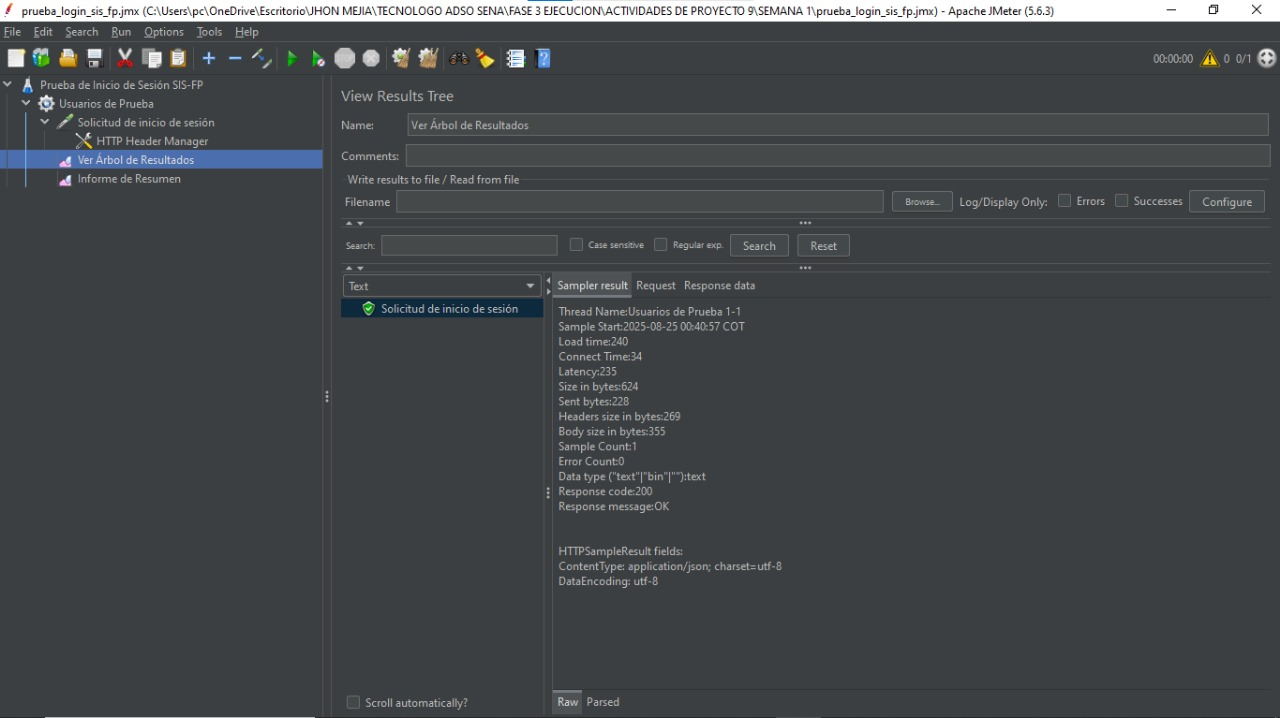
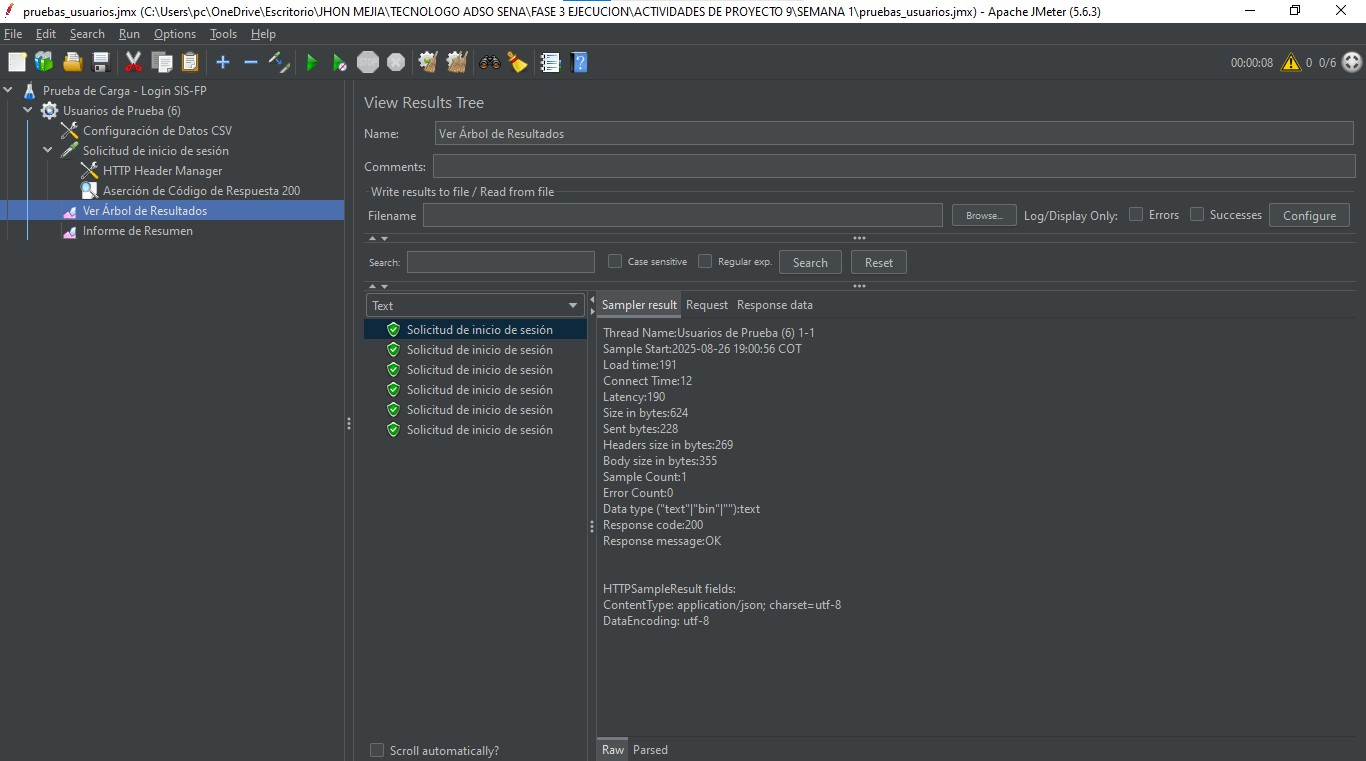
Actualizacion de las pruebas, varios usuarios

diff --git a/index.html b/index.html
@@ -77,8 +77,8 @@
                 <p>Se utilizó Jmeter para realizar una prueba básica de inicio de sesión, validando que el servidor responda correctamente a la solicitud de autenticación.</p>
                 <div class="jmeter-summary">
                     <h3>Resumen de la Prueba de Login</h3>
-                    <p>El plan de pruebas en Jmeter se configuró para simular la solicitud de inicio de sesión a la API del backend, que se encuentra en <code>http://localhost:3000/api/login</code>. Se envió una petición **POST** con un cuerpo JSON que contenía el `username` y la `password` de un usuario de prueba. La prueba se ejecutó una vez.</p>
-                    <p>El resultado fue un **código de respuesta 200 (OK)**. Esto confirma que el servidor de la API está en funcionamiento y que el *endpoint* de autenticación procesó la solicitud de manera exitosa, permitiendo el inicio de sesión. Esta es una prueba fundamental para verificar la conectividad y el correcto funcionamiento de una de las partes más críticas del sistema: la autenticación.</p>
+                    <p>El plan de pruebas en Jmeter se configuró para simular el inicio de sesión de 6 usuarios virtuales de forma concurrente. Se enviaron múltiples peticiones `POST` al endpoint `http://localhost:3000/api/login`, cada una con credenciales únicas de usuarios previamente registrados.</p>
+                    <p>El resultado fue un éxito total: todas las solicitudes obtuvieron un código de respuesta `200 (OK)`. Esto confirma que el servicio de autenticación es robusto y puede manejar eficientemente la carga de múltiples inicios de sesión simultáneos sin presentar fallos.</p>
                     <div class="image-placeholder">
                         <p>Capturas de pantalla de las pruebas realizadas con Jmeter.</p>
                         <img src="solicitud_inicio_de_sesion.jpg" alt="Captura de pantalla de Jmeter - solicitud inicio de sesión">

diff --git a/style.css b/style.css
@@ -86,7 +86,7 @@ body {
 }
 
 h2 {
-    color: #004085;
+    color: #2e6be6;
     text-align: center;
     font-size: 2rem;
     border-bottom: 2px solid #004085;

diff --git a/README.md b/README.md
@@ -1,0 +1,52 @@
+# 🚀 Taller de Pruebas de Software - SIS-FP
+
+## 📝 Descripción del Proyecto
+
+Este repositorio contiene la **Landing Page** desarrollada como parte del taller de pruebas de software, enfocado en el análisis y la demostración de la calidad del sistema **SIS-FP (Sistema de Integración y Seguridad en Puertos Fluviales)**.
+
+El objetivo principal de esta página es documentar el proceso del taller, desde la teoría de las pruebas hasta una demostración práctica con la herramienta **Apache Jmeter**.
+
+---
+
+## ✨ Características Principales
+
+* **Página de Portada:** Información del aprendiz y una introducción al taller.
+* **Fundamentos de Pruebas:** Resumen de los principales tipos de pruebas de software (Funcionales, de Rendimiento, Usabilidad y Seguridad).
+* **Análisis para SIS-FP:** Recomendaciones de pruebas específicas para el sistema, enfocadas en la seguridad y el rendimiento.
+* **Demostración con Jmeter:** Un resumen detallado de una prueba de inicio de sesión realizada con Jmeter, validando el correcto funcionamiento del *endpoint* de autenticación.
+
+---
+
+## 🛠 Tecnologías Utilizadas
+
+* **HTML5:** Para la estructura de la página.
+* **CSS3:** Para el diseño y estilo visual.
+* **Jmeter:** Herramienta de código abierto para pruebas de carga y rendimiento.
+
+---
+
+## 📸 Demostración de la Prueba (Jmeter)
+
+Se realizaron pruebas funcionales al *endpoint* de login del backend de SIS-FP.
+
+### Resumen de la prueba:
+- **Tipo de prueba:** Funcional (validación de login).
+- **Herramienta:** Apache Jmeter.
+- **Resultado:** La prueba fue exitosa, obteniendo un código de respuesta **200 (OK)**, lo que confirma que el servicio de autenticación está operativo.
+
+
+
+### Capturas de pantalla clave:
+
+1.  **Vista del Árbol de Resultados:** Muestra la solicitud y la respuesta exitosa.
+2.  **Configuración de la Solicitud:** Detalle del método `POST` y los datos JSON enviados.
+3.  **Informe de Resumen:** Métricas básicas de la prueba.
+
+---
+
+## 👨🎓 Información del Aprendiz
+
+* **Nombre:** Jhon Jairo Mejia Avila
+* **Curso/Ficha:** Aprendiz en Desarrollo y Analisis de Software - Ficha 2885525
+* **Institución:** SENA
+* **Enlace de la Landing Page:** https://jjmejiaavila.github.io/taller-pruebas-sena/
